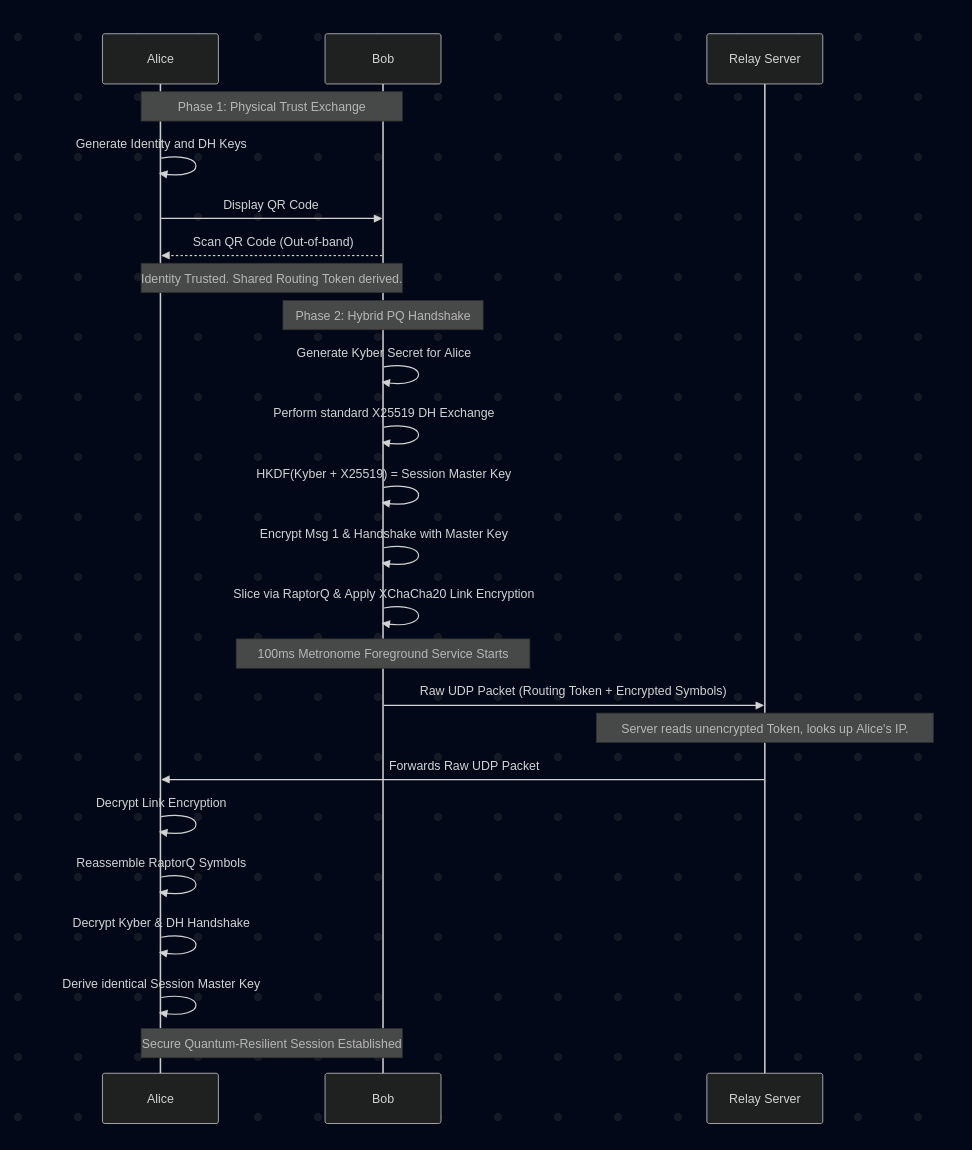
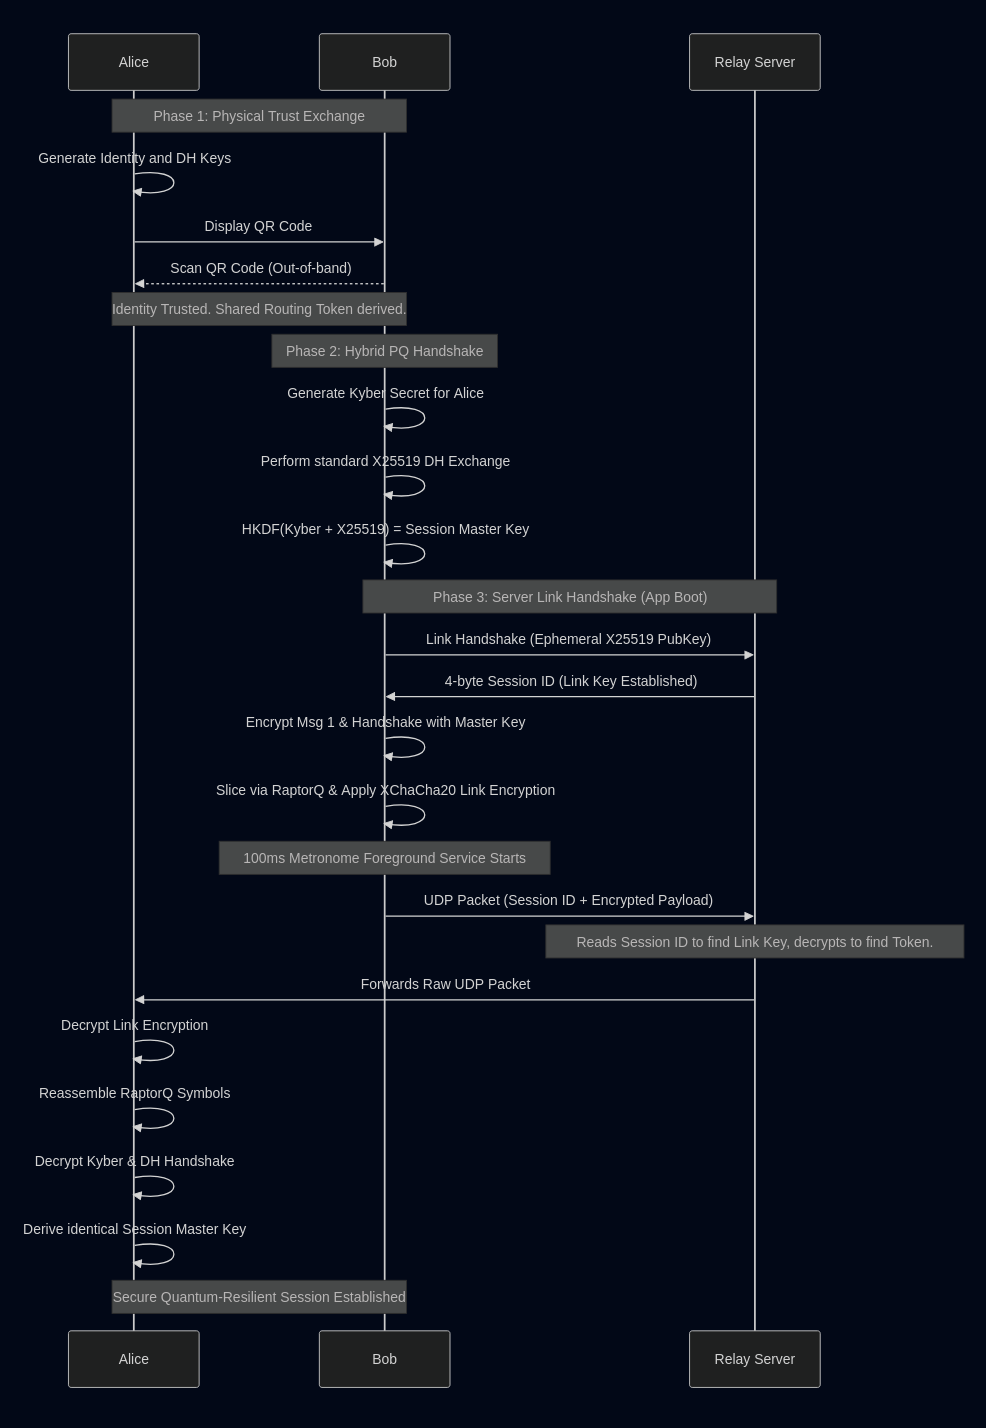
New diagrams, Xchacha20 server handshake implemented

Changed region(s): [[0.0309, 0.0, 0.9877, 1.0], [0.679, 0.0, 0.8642, 0.0913], [0.679, 0.913, 0.8642, 1.0]]

diff --git a/doable-cryptographic-flow.md b/doable-cryptographic-flow.md
@@ -7,7 +7,7 @@ This document describes the simplified, realistic cryptographic architecture of 
 ## 1. Architectural Role Summary
 
 *   **Clients (Alice & Bob)**: Generate all keys locally in memory (no Samsung Knox hardware APIs). Trust is established strictly in person via QR codes (no cloud prekey servers). The clients handle all asymmetric/symmetric cryptography, RaptorQ Forward Error Correction (FEC), and the Constant-Rate Tunnel (CRT) UDP metronome.
-*   **AWS Relay**: A "dumb" RAM-only router. It has zero knowledge of User IDs or E2E keys. To make this feasible for a university project, the relay uses a hardcoded universal Pre-Shared Key (PSK) to strip the outer link-encryption layer, read the routing token, and route or queue the raw UDP packet.
+*   **AWS Relay**: A "dumb" RAM-only router. It has zero knowledge of User IDs or E2E keys. The relay uses a "WireGuard-Lite" X25519 Link Handshake to establish ephemeral link keys with clients. It reads an unencrypted 4-byte Session ID to identify the link key, decrypts the outer shell, reads the routing token, and routes or queues the raw UDP packet.
 
 ---
 
@@ -51,7 +51,7 @@ Once the session is bootstrapped, ongoing messaging relies purely on the classic
 To evade traffic analysis and DPI, the symbols must be obfuscated.
 
 1.  **Link Encryption**: To hide the RaptorQ headers and the Routing Token from the ISP, Alice wraps the entire packet in an outer layer of **XChaCha20-Poly1305**.
-    *   *Uni Feasibility Note*: She encrypts this outer shell using the universal Pre-Shared Key (PSK) hardcoded into the app and the AWS Relay.
+    *   *Server Key-Pinning*: She encrypts this outer shell using an ephemeral Link Master Key established via an X25519 handshake with the server's hardcoded public key when the app boots. She prepends an unencrypted 4-byte Session ID to the outside of the packet so the server knows which key to use.
 2.  **The Metronome**: A Rust `tokio` thread running in an Android Foreground Service transmits exactly one UDP packet every 100ms. 
     *   If there are RaptorQ symbols in the queue, it sends one.
     *   If the user isn't typing, it generates and sends a random Dummy Packet of the exact same size to ensure the traffic rate never fluctuates.
@@ -64,10 +64,12 @@ To evade traffic analysis and DPI, the symbols must be obfuscated.
 2.  **Alice** slices it into 5 RaptorQ symbols.
 3.  **Alice's Metronome** wakes up (Tick 1):
     *   Takes Symbol 1, prepends the 16-byte Routing Token.
-    *   Encrypts the whole block with the Link PSK (XChaCha20).
+    *   Encrypts the block with the Link Master Key (XChaCha20).
+    *   Prepends the unencrypted 4-byte Link Session ID to the outside.
     *   Fires it over raw UDP to AWS Relay port 443.
 4.  **AWS Relay** receives the UDP packet.
-    *   Decrypts the outer layer using the Link PSK.
+    *   Reads the 4-byte Session ID and looks up Alice's Link Master Key in RAM.
+    *   Decrypts the outer layer using the Link Master Key.
     *   Reads the 16-byte Routing Token.
     *   Looks up the token in its RAM `HashMap`.
     *   Routes the inner payload to Bob's IP (or queues it if Bob hasn't pinged in 5 seconds).
@@ -82,9 +84,9 @@ To evade traffic analysis and DPI, the symbols must be obfuscated.
 
 Because this is a 12-week university scope, several production-grade security features were cut. These must be acknowledged as limitations:
 
-### A. The Universal PSK for Link Encryption
-*   **The Issue**: To allow the stateless AWS Relay to decrypt the outer shell and route the packets, a universal Pre-Shared Key (PSK) is hardcoded into the clients and the server.
-*   **The Vulnerability**: If anyone reverse-engineers the Android APK and extracts the PSK, they can decrypt the outer layer of *all* traffic on the network. While they still cannot read the E2E encrypted messages (protected by QR keys), they can read the Routing Tokens and completely de-anonymize the metadata graph (seeing who is talking to whom).
+### A. The X25519 Link Handshake (Replaces PSK)
+*   **The Upgrade**: Originally, a universal Pre-Shared Key (PSK) was planned for link encryption, which was a massive security vulnerability. This has been replaced by a "WireGuard-Lite" handshake. The AWS Relay's static X25519 public key is hardcoded into the app. When the app boots, it generates an ephemeral keypair and performs a DH exchange with the server's public key to establish a unique Link Master Key, receiving a 4-byte Session ID in return. 
+*   **The Result**: If someone extracts the hardcoded server public key from the APK, it is useless to them. They cannot decrypt other users' link traffic because they lack the server's private key. The 4-byte Session ID securely identifies incoming packets despite mobile IP roaming.
 
 ### B. Double Ratchet Memory Bounds (Resolved)
 *   **The Issue**: The standard Double Ratchet handles dropped messages by saving derived keys for "skipped" messages in a dictionary indefinitely. Under 95% UDP loss, the number of permanently lost messages is massive, which would cause an Out-Of-Memory (OOM) crash.

diff --git a/architecture-diagrams.md b/architecture-diagrams.md
@@ -23,12 +23,16 @@ sequenceDiagram
     B->>B: Perform standard X25519 DH Exchange
     B->>B: HKDF(Kyber + X25519) = Session Master Key
     
+    Note over B, S: Phase 3: Server Link Handshake (App Boot)
+    B->>S: Link Handshake (Ephemeral X25519 PubKey)
+    S->>B: 4-byte Session ID (Link Key Established)
+
     B->>B: Encrypt Msg 1 & Handshake with Master Key
     B->>B: Slice via RaptorQ & Apply XChaCha20 Link Encryption
     
     Note over B: 100ms Metronome Foreground Service Starts
-    B->>S: Raw UDP Packet (Routing Token + Encrypted Symbols)
-    Note over S: Server reads unencrypted Token, looks up Alice's IP.
+    B->>S: UDP Packet (Session ID + Encrypted Payload)
+    Note over S: Reads Session ID to find Link Key, decrypts to find Token.
     S->>A: Forwards Raw UDP Packet
     
     A->>A: Decrypt Link Encryption
@@ -51,18 +55,18 @@ sequenceDiagram
     Note over A, B: Both clients running 100ms Metronome Timer
     
     Note over A, B: Scenario A: Idle (No users typing)
-    A->>S: UDP Dummy (Token + Random Crypto Noise)
+    A->>S: UDP Dummy (Session ID + Encrypted Noise)
     S->>B: Forwarded blindly
-    B->>S: UDP Dummy (Token + Random Crypto Noise)
+    B->>S: UDP Dummy (Session ID + Encrypted Noise)
     S->>A: Forwarded blindly
     Note over A, B: To an observer, the link looks like a constant static stream.
 
     Note over A, B: Scenario B: Alice sends a real message
     A->>A: Encrypt Msg via X25519 Double Ratchet (Unique Key)
     A->>A: Slice into 3 Redundant Symbols (RaptorQ)
-    A->>S: Metronome Tick 1: UDP Packet (Symbol 1)
-    A->>S: Metronome Tick 2: UDP Packet (Symbol 2)
-    A->>S: Metronome Tick 3: UDP Packet (Symbol 3)
+    A->>S: Metronome Tick 1: UDP Packet (Session ID + Symbol 1)
+    A->>S: Metronome Tick 2: UDP Packet (Session ID + Symbol 2)
+    A->>S: Metronome Tick 3: UDP Packet (Session ID + Symbol 3)
     
     S->>B: Forwards Packet 1
     S-xB: Packet 2 DROPPED (Network Loss)
@@ -87,11 +91,11 @@ sequenceDiagram
     Note over A: Alice's phone dies or loses service.
     
     Note over B, S: Bob's Metronome continues firing at 100ms
-    B->>S: UDP Packet (Token + Dummy or Message)
-    Note over S: Reads Token. Alice's IP is not bound or active.
+    B->>S: UDP Packet (Session ID + Encrypted Dummy/Message)
+    Note over S: Decrypts via Session ID, reads Token. Alice's IP not active.
     S->>S: Store packet in RAM Offline Queue for Token
     
-    B->>S: UDP Packet (Token + Dummy or Message)
+    B->>S: UDP Packet (Session ID + Encrypted Dummy/Message)
     S->>S: Store packet in RAM Offline Queue for Token
     
     Note over A: Alice reconnects (App opens and binds IP)

diff --git a/doable-roadmap.md b/doable-roadmap.md
@@ -30,7 +30,7 @@ The MVP will demonstrate a Mobile-to-Mobile messenger built with a Rust core, ro
 *   **Hybrid PQ Session Bootstrapping:** The very first handshake message utilizes a Rust crate like `pqcrypto-kyber` to encapsulate an ML-KEM secret against the peer's public key. This secret is fed into the HKDF alongside the X25519 secrets to seed the initial Double Ratchet.
 *   **E2E Encryption:** Basic X25519 Double Ratchet for ongoing messages (ignoring PQ session healing).
 *   **Transport (RaptorQ):** Use a Rust FEC crate (e.g., `raptorq`) to slice encrypted messages into redundant symbols.
-*   **Hop-by-Hop Link Encryption:** To prevent DPI from fingerprinting the RaptorQ symbols, you will wrap every packet in an outer layer of XChaCha20-Poly1305 encryption before sending it to the Relay.
+*   **Hop-by-Hop Link Encryption:** To prevent DPI from fingerprinting the RaptorQ symbols, you will wrap every packet in an outer layer of XChaCha20-Poly1305 encryption (using an ephemeral key established via X25519 DH handshake with the server's static public key) before sending it to the Relay.
 *   **The Metronome:** A background Rust thread running a `sleep(100ms)` loop. **Crucial Android Note:** The app *must* run as an Android "Foreground Service" with a persistent sticky notification to prevent Doze mode from killing the timer.
 
 ### B. The Server (Relay)
@@ -52,7 +52,7 @@ The MVP will demonstrate a Mobile-to-Mobile messenger built with a Rust core, ro
 *   **Task 2.1 (Rust Crypto):** Implement the standard X25519 Double Ratchet state machine, seeded by the Master Key generated in Phase 1.
 *   **Task 2.1b (Rust Crypto):** Implement memory bounds on the Double Ratchet (e.g., `MAX_SKIP = 500` limit and a 5-minute Time-To-Live pruning for skipped message keys).
 *   **Task 2.2 (Rust Transport):** Integrate a raw `tokio::net::UdpSocket` to send datagrams over port 443. Build the 100ms `tokio` metronome thread in the Rust core, emitting Dummy packets when idle.
-*   **Task 2.2b (Rust Transport):** Implement outer Link Encryption (XChaCha20-Poly1305) so every UDP datagram looks like pure cryptographic noise to an outside observer. Ensure link key rotation handles network jitter correctly.
+*   **Task 2.2b (Rust Transport):** Implement the X25519 Link Handshake and outer Link Encryption (XChaCha20-Poly1305). Ensure the app prepends the 4-byte unencrypted Session ID so the server can statelessly identify the correct ephemeral link key.
 *   **Task 2.3 (Mobile UI):** Wrap the Rust metronome execution in an Android **Foreground Service**. 
 
 ### Phase 3: The Blind Relay Server (Weeks 8-9)

diff --git a/README.md b/README.md
@@ -32,7 +32,7 @@ Instead, our Rust core uses **RaptorQ**, a Forward Error Correction (FEC) founta
 To prevent a passive observer from knowing *when* you are talking or *how much* you are saying, the app establishes a **Constant-Rate Tunnel (CRT)**.
 - A Rust timer loop runs in an Android Foreground Service, firing exactly one packet every **100ms** (10 pkts/sec).
 - If the user isn't typing, the client generates cryptographically secure random bytes (Dummy Packets) and sends them anyway.
-- For extreme deployment conditions (SATCOM, degraded 2G/3G), these packets are sent as **pure, raw UDP datagrams** (over port 443) wrapped in an outer layer of **XChaCha20-Poly1305** Link Encryption. This provides maximum bandwidth efficiency and reliability by eliminating connection handshakes and congestion control overhead, which would otherwise cripple performance under 95% packet loss.
+- For extreme deployment conditions (SATCOM, degraded 2G/3G), these packets are sent as **pure, raw UDP datagrams** (over port 443) wrapped in an outer layer of **XChaCha20-Poly1305** Link Encryption (secured statelessly via an ephemeral X25519 handshake against the server's pinned public key). This provides maximum bandwidth efficiency and reliability by eliminating connection handshakes and congestion control overhead, which would otherwise cripple performance under 95% packet loss.
 
 ### 6. The Blind Relay Server
 The backend is a highly concurrent, RAM-only cloud server. It acts purely as a dumb router.
